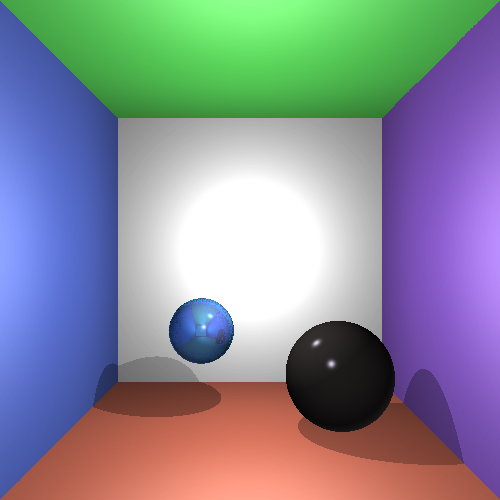
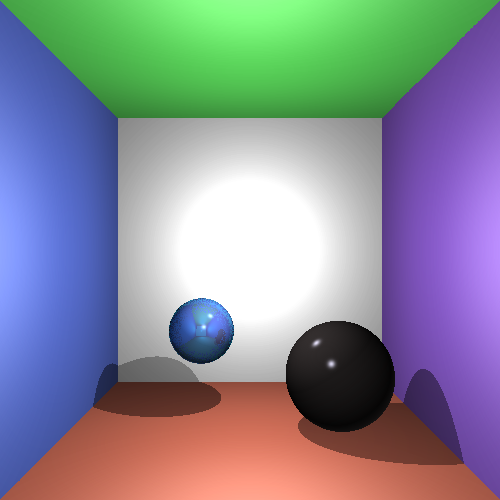
all lights are almost ok

Changed region(s): [[0.6, 0.84, 0.78, 0.93], [0.27, 0.78, 0.45, 0.84]]

diff --git a/src/RayTracing/SoftShadow.java b/src/RayTracing/SoftShadow.java
@@ -8,29 +8,26 @@ public class SoftShadow {
     public static double CalcLightIntensity(Hit hit, Scene scene, Light light) {//returns the light intensity from a specific light source in a hit point according to soft shadows method
         Random r = new Random();
         int raysCounter = 0;
-        Vector dir = Vector.VectorSubtraction(light.Position, hit.HitPoint);// normal to light plane is light - hit point
-        double offset = Plane.CalcOffset(dir, light.Position);// find the offset of the light plane
-        dir.Normalize();
-        Plane lightPlane = new Plane(dir, offset);
-        Vector otherPoint = lightPlane.FindPoint(light.Position);//find another point on the plane in order to find unit vectors that create the plane
-        Vector u = Vector.VectorSubtraction(otherPoint, light.Position); //u vector of light plane
-        u.Normalize();
-        Vector v = Vector.CrossProduct(dir, u); //v vector of light plane
-        v.Normalize();
+        Vector lightDir = Vector.VectorSubtraction(light.Position, hit.HitPoint);
+        lightDir.Normalize();
+        Ray lightRay = new Ray(light.Position, lightDir);
+        Vector [] axis = PerpPlane(light, lightRay);
+        Vector u = axis[0]; //u vector of light plane
+        Vector v = axis[1];; //v vector of light plane
         int rays = (int) Math.pow(scene.Settings.NumOfShadowRays, 2);//number of shadow rays totally shot
         double squareSize = light.LightRadius / (scene.Settings.NumOfShadowRays); //size of one square in the light plane
-        Vector temp = Vector.VectorAddition(Vector.ScalarMultiply(u, (scene.Settings.NumOfShadowRays * 0.5) * squareSize),
-                    Vector.ScalarMultiply(v, (scene.Settings.NumOfShadowRays * 0.5) * squareSize)); //like in the screen center, temp is 0.5*(u*height + v*width)
-        Vector s0 = Vector.VectorSubtraction(light.Position, temp); // bottom left corner square is center - temp
+        Vector temp = Vector.VectorAddition(Vector.ScalarMultiply(u, light.LightRadius),
+                    Vector.ScalarMultiply(v, light.LightRadius )); //like in the screen center, temp is (u*height + v*width)
+        Vector s0 = Vector.VectorSubtraction(light.Position, Vector.ScalarMultiply(temp, 0.5)); // bottom left corner square is center - 0.5temp
         Vector du = Vector.ScalarMultiply(u, squareSize);
         Vector dv = Vector.ScalarMultiply(v, squareSize);
         for (int row = 0; row < scene.Settings.NumOfShadowRays; row++) {
             for (int col = 0; col < scene.Settings.NumOfShadowRays; col++) {
                 Vector shift = Vector.VectorAddition(Vector.ScalarMultiply(du, col), Vector.ScalarMultiply(dv, row));
                 Vector currentSquare = Vector.VectorAddition(s0, shift);
-                Vector randomMove = GenerateRandomMoveVector(du, dv, squareSize);
+                Vector randomMove = GenerateRandomMoveVector(squareSize);//generates a random move vector within the square
                 Vector rayOrigin = Vector.VectorAddition(currentSquare, randomMove);
-                Ray ray = new Ray(rayOrigin, Vector.VectorSubtraction(rayOrigin, hit.HitPoint));//construct a ray from the square to the hit point
+                Ray ray = new Ray(rayOrigin, Vector.VectorSubtraction(hit.HitPoint, rayOrigin));//construct a ray from the square to the hit point
                 ray.Direction.Normalize();
                 List<Hit> hits = Hit.FindHits(ray, scene);//find all the objects the ray hits
                 if(hits.size() ==0){continue;}
@@ -45,7 +42,7 @@ public class SoftShadow {
     }
 
     //find a random shift vector inside the current square. moves at most (+-)0.5 square size in u and v directions. the random arg generates an number
-    public static Vector GenerateRandomMoveVector(Vector u, Vector v, double size){
+    public static Vector GenerateRandomMoveVector(double size){
         Random r = new Random();
         double moveU = r.nextDouble()*0.5; //generates a number between 0-0.5
         if(r.nextBoolean()){moveU = moveU*-1;} // randomizes + or -
@@ -53,7 +50,17 @@ public class SoftShadow {
         double moveV = r.nextDouble()*0.5; //generates a number between 0-0.5
         if(r.nextBoolean()){moveV = moveV*-1;} // randomizes + or -
         moveV = moveV * size;
-        return Vector.VectorAddition(Vector.ScalarMultiply(u,moveU), Vector.ScalarMultiply(v, moveV));
+        return new Vector(moveU, moveV, 0);
+    }
+
+    //find a perpendicular plane from the light and the ray
+    public static Vector[] PerpPlane(Light light, Ray ray){
+        double d = Vector.DotProduct(light.Position, ray.Direction);
+        Vector U = new Vector(1, 0, (-ray.Direction.X + d) / ray.Direction.Z);
+        Vector V = new Vector(1, 0, (-ray.Direction.Y + d) / ray.Direction.Z);
+        U.Normalize();
+        V.Normalize();
+        return new Vector[] {U, V };
     }
 }
 

diff --git a/src/RayTracing/ColorUtils.java b/src/RayTracing/ColorUtils.java
@@ -84,7 +84,7 @@ public class ColorUtils {
             }
             double lightIntensity = SoftShadow.CalcLightIntensity(hit, scene, l);
             c = mult(l.LightColor,mat.DiffuseColor);
-            //c = mult(c,(float) lightIntensity);
+            c = mult(c,(float) lightIntensity);
             float nl =(float) Vector.DotProduct(normal, lightRay.Direction);
             nl = (float) Math.max(Math.abs(nl), 0.0);
             c = mult(c,nl);
@@ -107,7 +107,7 @@ public class ColorUtils {
         Vector lightTry = Vector.VectorSubtraction(lightRay.Origin,hit.HitPoint);
         lightTry.Normalize();
         double temp = Math.max(Vector.DotProduct(v,Vector.getReflection(lightTry,normal)),0);
-        temp = Math.pow(temp,mat.PhongSpecularityCoeffincient);//*lightIntensity;
+        temp = Math.pow(temp,mat.PhongSpecularityCoeffincient)*lightIntensity;
         Color c = mult(mat.SpecularColor,(float) (temp*light.SpecularIntensity));
         return c ;
     }

diff --git a/src/RayTracing/Plane.java b/src/RayTracing/Plane.java
@@ -22,7 +22,7 @@ public class Plane {
 
     /*
             Calculate the offset for the soft shadow light plane
-             */
+
     public static double CalcOffset(Vector normal, Vector position){
         return (normal.X *(- position.X)) + (normal.Y *(- position.Y)) + (normal.Z *(- position.Z));
     }
@@ -32,7 +32,7 @@ public class Plane {
     Plane: aX + bY + cZ = -d
     if we are not parallel to an axis plane we can random values for x and y and calculate z.
     Make sure the point is not the P that we have
-     */
+
     public Vector FindPoint(Vector P){
         double x,y,z;
         Random r = new Random();
@@ -59,4 +59,6 @@ public class Plane {
         z = (-Offset + Normal.Y*y + Normal.X*x) / Normal.Z;
         return new Vector(x, y, z);
     }
+
+     */
 }
